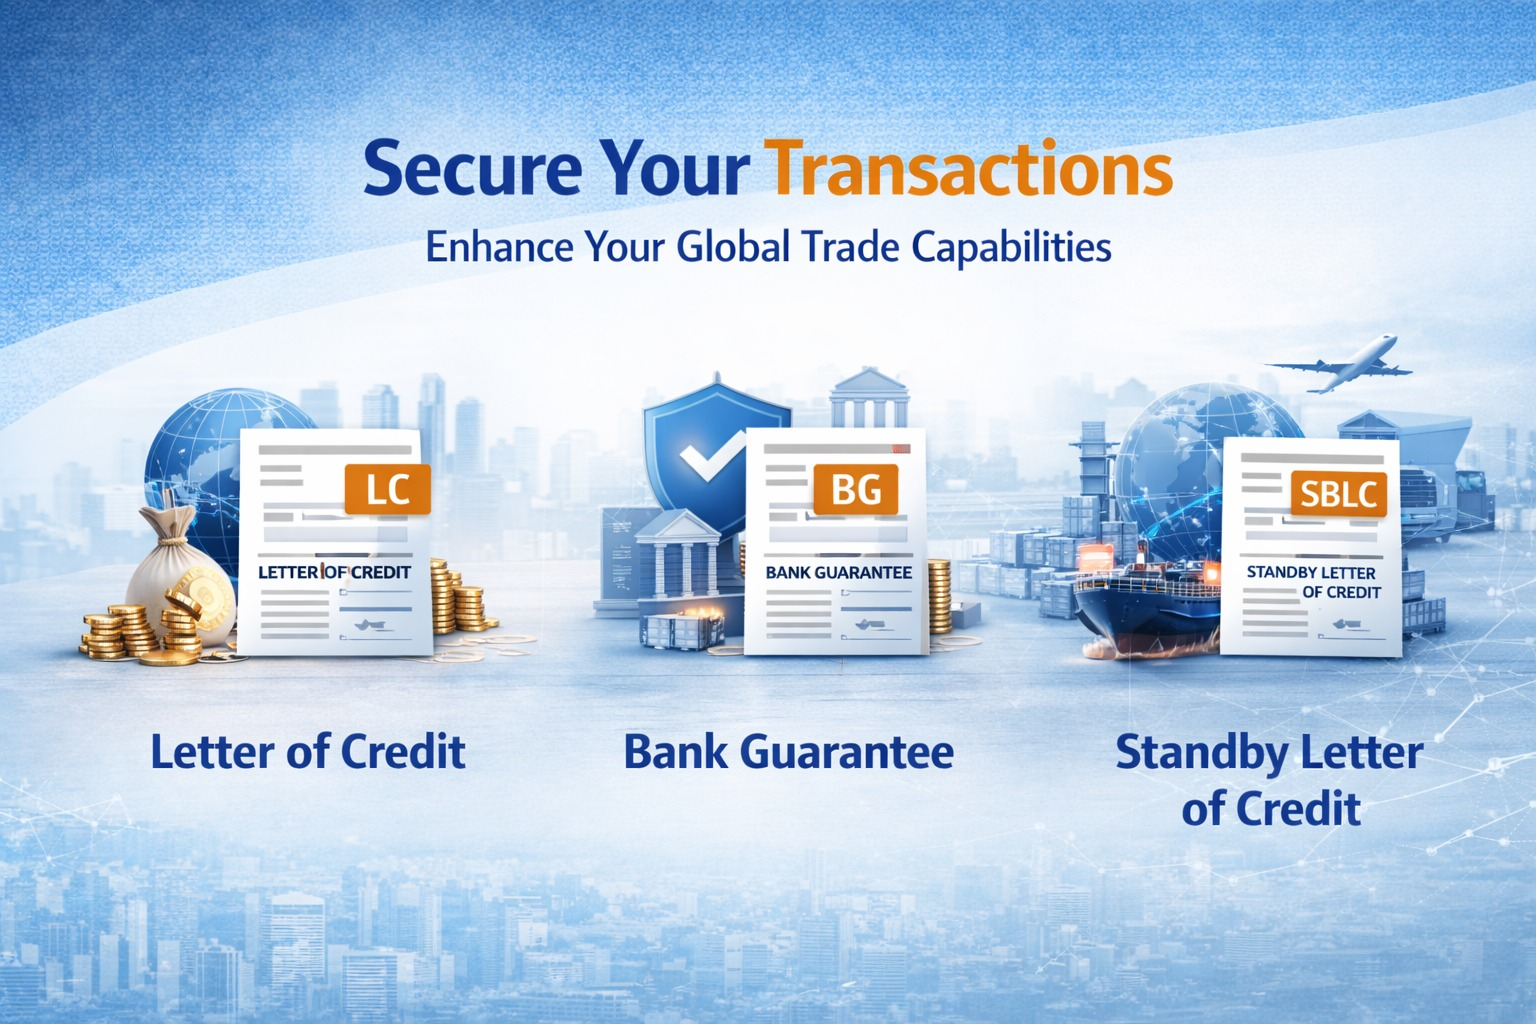
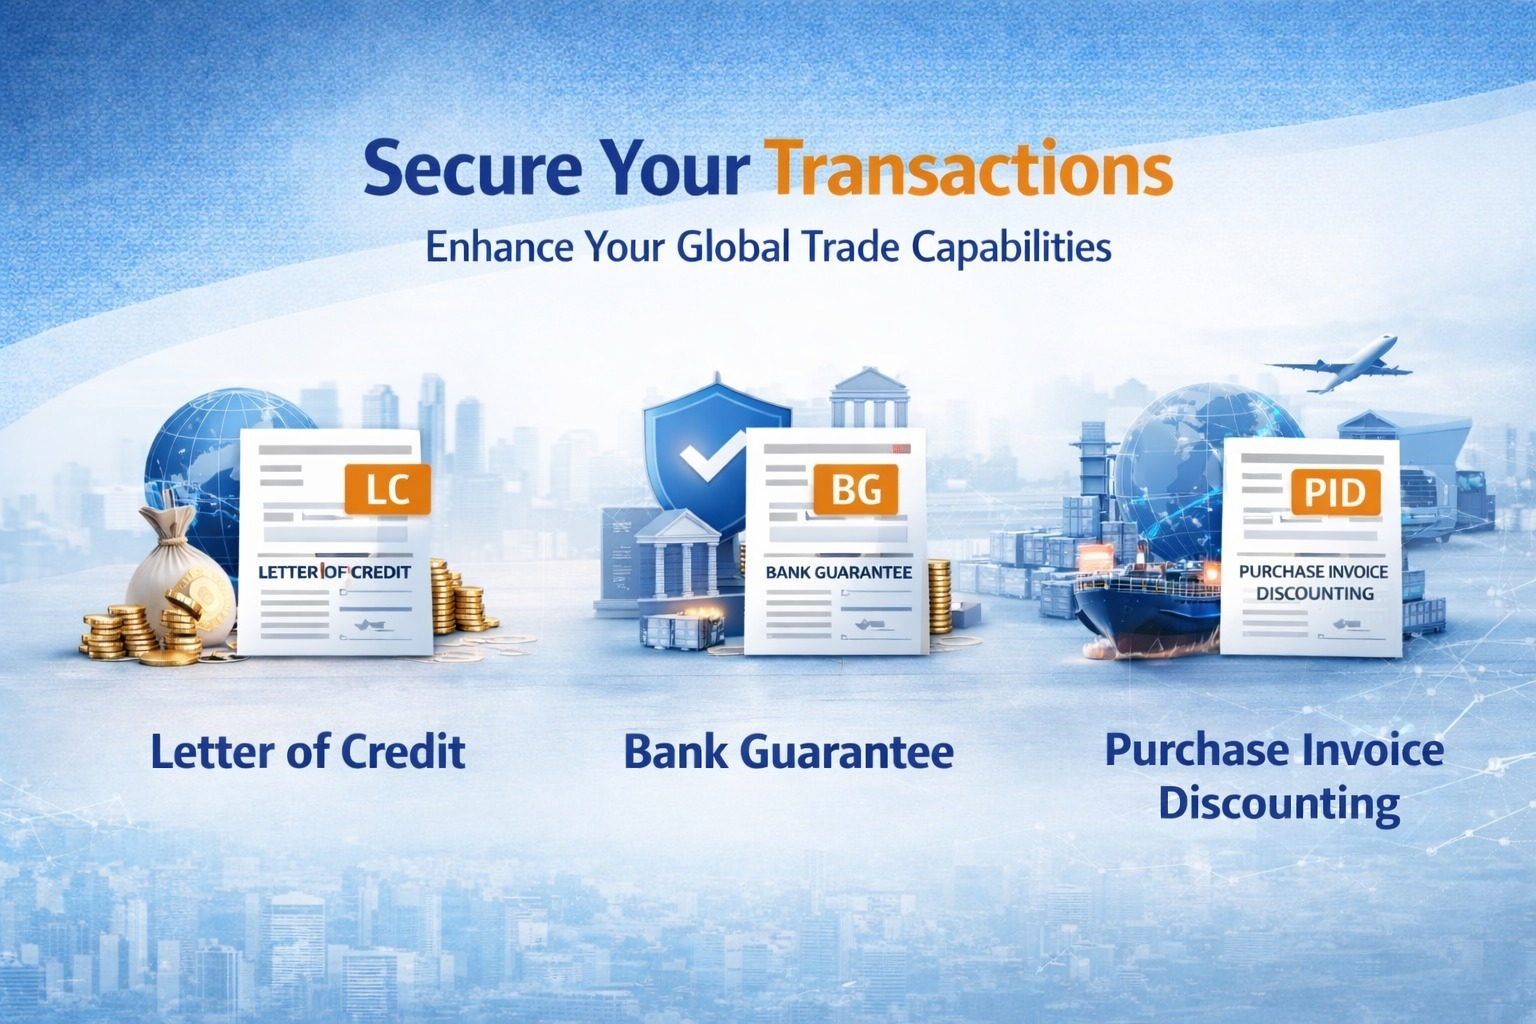
v1.1.1

diff --git a/src/app/(website)/services/ServicesClient.jsx b/src/app/(website)/services/ServicesClient.jsx
@@ -64,7 +64,7 @@ const servicesdata = [
     img: "/Images/services/lcbg.jpeg",
     short:
       "Secure financial instruments to support domestic and international trade.",
-    long: "At Chakra Financial Services, we understand the importance of trust and security in business transactions. Our Letter of Credit (LC), Bank Guarantee (BG), and Standby Letter of Credit (SBLC) facilities provide strong financial backing to ensure smooth and secure domestic and international trade. These instruments help buyers and sellers fulfill contractual obligations with confidence and peace of mind.",
+    long: "At Chakra Financial Services, we provide reliable and structured trade finance solutions in India to help businesses manage cash flow, reduce risk, and expand globally. Our expertise in Letter of Credit (LC), Bank Guarantee (BG), and Purchase Invoice Discounting(PID) ensures smooth and secure financial transactions for importers, exporters, and businesses.",
   },
 ];
 
@@ -155,163 +155,4 @@ export default function ServicesClient() {
     </>
   );
 }
-// "use client";
 
-// import Footer from "@/components/shared/Footer";
-// import Header from "@/components/shared/Header";
-// import Image from "next/image";
-// import { useState } from "react";
-
-// const servicesdata = [
-//   {
-//     id: 1,
-//     title: "Personal Loans",
-//     img: "https://www.cashe.co.in/wp-content/uploads/2024/04/Instant_Personal_Loan_Online.png",
-//     short:
-//       "Quick and flexible personal loan solutions for lifestyle, emergency, or personal needs.",
-//     long: "We assist individuals in accessing quick and flexible personal loan solutions to meet lifestyle, emergency, or personal financial needs. Our role is to simplify the process, guide you through eligibility and documentation, and connect you with suitable options that match your repayment capacity.",
-//   },
-//   {
-//     id: 2,
-//     title: "Business Loans",
-//     img: "https://5.imimg.com/data5/SELLER/Default/2024/10/461216050/HM/HF/IS/68754708/business-loan-500x500.jpg",
-//     short:
-//       "Structured funding solutions to support business growth and operations.",
-//     long: "Chakra Financial Services supports entrepreneurs, MSMEs, and growing businesses with structured funding solutions for working capital, expansion, equipment purchase, and operational needs. We focus on understanding your business model and aligning you with financing options that support sustainable growth.",
-//   },
-//   {
-//     id: 3,
-//     title: "Home Loans",
-//     img: "https://greenspacehousing.com/wp-content/uploads/2025/06/Blog-4-1400x700.jpg",
-//     short:
-//       "Guided home loan advisory for purchase, construction, and balance transfer.",
-//     long: "Owning a home is a milestone, and we help make that journey smoother. Our home loan advisory covers purchase, construction, and balance transfer options. We guide you through interest rate choices, documentation, and lender selection to ensure a transparent and comfortable borrowing experience.",
-//   },
-//   {
-//     id: 4,
-//     title: "Mortgage Loans (Loan Against Property)",
-//     img: "https://blogassets.airtel.in/wp-content/uploads/2024/04/What-is-Mortgage-Loans-ELigibility-EMI-and-Interest-rates.jpg",
-//     short:
-//       "Mortgage-based funding by leveraging residential or commercial property.",
-//     long: "We facilitate mortgage-based funding for individuals and businesses by leveraging residential or commercial property. Our advisory ensures that clients access competitive terms, appropriate loan structures, and clear repayment planning while unlocking the value of their assets responsibly.",
-//   },
-//   {
-//     id: 5,
-//     title: "Education Loans",
-//     img: "https://encrypted-tbn1.gstatic.com/images?q=tbn:ANd9GcTHB8AEamKRl0TalLTDtUUjSIeurXixfDMr4oZipI4kpX19KIZ7",
-//     short: "Education financing guidance for studies in India and abroad.",
-//     long: "We help students and families explore education financing options for studies in India and abroad. Our support includes guidance on loan eligibility, co-applicant requirements, documentation, and repayment planning—enabling families to invest in education with financial clarity and confidence.",
-//   },
-//   {
-//     id: 6,
-//     title: "Insurance Services",
[1 lines of base64/hex data omitted]
-//     short:
-//       "Advisory services to protect life, health, assets, and business interests.",
-//     long: "Our insurance advisory focuses on protecting what matters most—life, health, assets, and business interests. We assist clients in choosing suitable coverage based on risk profile and long-term needs, ensuring informed decisions rather than product-driven selling.",
-//   },
-//   {
-//     id: 7,
-//     title: "Overdraft / Cash Credit Facility",
-//     img: "https://sgaa.in/resource/Image/bann1.jpg",
-//     short:
-//       "Flexible funds to manage short-term cash flow needs and unexpected expenses.",
-//     long: "At Chakra Financial Services, we understand that businesses and individuals occasionally need extra funds to manage day-to-day expenses or deal with unexpected shortfalls. Our overdraft and cash credit facilities provide access to additional funds beyond your account balance, offering a reliable financial safety net to cover short-term cash flow gaps with flexibility and convenience.",
-//   },
-//   {
-//     id: 8,
-//     title: "LC / BG / SBLC Facilities",
-//     img: "https://encrypted-tbn2.gstatic.com/images?q=tbn:ANd9GcRv3LoizJjn7Lg2J8GDw95eSvPI6xs0tAe61_BIDC9Ww6JT4W_2",
-//     short:
-//       "Secure financial instruments to support domestic and international trade.",
-//     long: "At Chakra Financial Services, we understand the importance of trust and security in business transactions. Our Letter of Credit (LC), Bank Guarantee (BG), and Standby Letter of Credit (SBLC) facilities provide strong financial backing to ensure smooth and secure domestic and international trade. These instruments help buyers and sellers fulfill contractual obligations with confidence and peace of mind.",
-//   },
-// ];
-
-// export default function ServicesPage() {
-//   const [openId, setOpenId] = useState(null);
-
-//   return (
-//     <>
-//       {/* ================== BANNER ================== */}
-//       <section className="pt-20">
-//         <div className="relative w-full h-auto">
-//           <img
-//             src="https://images.unsplash.com/photo-1601597111158-2fceff292cdc?q=80&w=1920&auto=format&fit=crop"
-//             alt="Financial Services"
-//             className="object-cover w-full h-100"
-//           />
-//         </div>
-//         {/* Overlay */}
-//         <div className="absolute inset-0" />
-
-//         {/* Content */}
-//         <div className="absolute -top-20 z-10 h-full flex items-center">
-//           <div className="max-w-7xl mx-auto px-6 ">
-//             <h1 className="text-4xl md:text-5xl font-bold text-white ">
-//               Our Services
-//             </h1>
-//             <p className="max-w-xl text-white/90 text-lg">
-//               Trusted financial advisory and funding solutions designed to help
-//               individuals and businesses grow with confidence.
-//             </p>
-//           </div>
-//         </div>
-//       </section>
-
-//       {/* ================== SERVICES ================== */}
-//       <section className="bg-[#F8FAFC] py-10">
-//         <div className="max-w-7xl mx-auto px-6 lg:px-18 space-y-10">
-//           {/* SERVICES LIST */}
-//           {servicesdata.map((service, index) => (
-//             <div
-//               key={Number(service.id)}
-//               className="grid lg:grid-cols-2 gap-12 items-center"
-//             >
-//               {/* IMAGE */}
-//               <div
-//                 className={`relative rounded-3xl overflow-hidden shadow-xl 
-//           ${index % 2 !== 0 ? "lg:order-2" : "lg:order-1"}`}
-//               >
-//                 <img
-//                   src={service.img}
-//                   alt={service.title}
-//                   className="object-cover w-full h-auto hover:scale-105 transition duration-500"
-//                 />
-//               </div>
-
-//               {/* CONTENT */}
-//               <div
-//                 className={`${index % 2 !== 0 ? "lg:order-1" : "lg:order-2"}`}
-//               >
-//                 <h3 className="text-3xl font-bold text-[#F47C20] mb-4">
-//                   {service.title}
-//                 </h3>
-
-//                 <p className="text-gray-600 mb-4">{service.short}</p>
-
-//                 {/* {Number(openId) === Number(service.id) && (
-//                   <p className="text-gray-600 leading-relaxed mb-6">
-//                     {service.long}
-//                   </p>
-//                 )}
-
-//                 <button
-//                   onClick={() =>
-//                     setOpenId(Number(openId) === Number(service.id) ? null : service.id)
-//                   }
-//                   className="px-6 py-3 rounded-full bg-[#F47C20] text-white font-medium hover:opacity-90 transition"
-//                 >
-//                   {Number(openId) === Number(service.id)? "Show Less" : "Read More →"}
-//                 </button> */}
-//                 <p className="text-gray-600 leading-relaxed mb-6">
-//                   {service.long}
-//                 </p>
-//               </div>
-//             </div>
-//           ))}
-//         </div>
-//       </section>
-//     </>
-//   );
-// }
